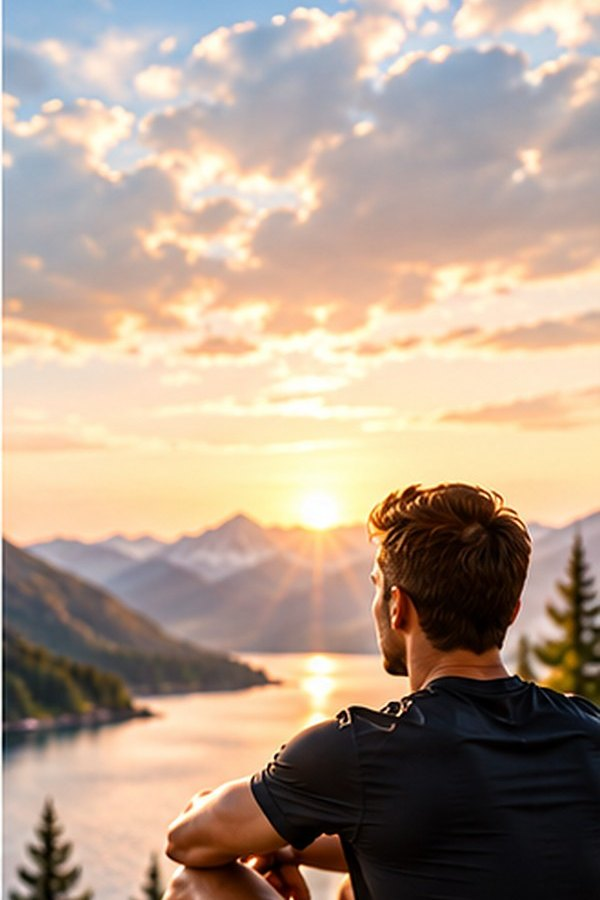
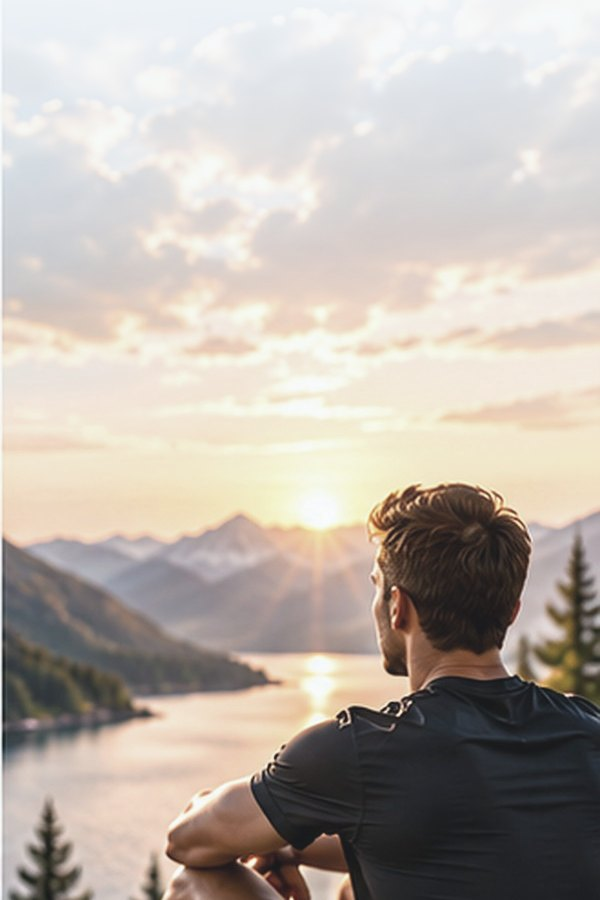
Welcome 5: pale daylight sky, large type and countdown, as designed
- The cover photo is toned from sunset to daylight, the sky paled at the
  top behind the copy
- Desktop: 42px question, 18px line, countdown boxes with 36px numbers,
  and the wide Claim button
- Phones: the type and countdown step down, and the cover grows taller
  with the photo pinned whole at its foot, so the copy never sits on him

Claude-Session: https://claude.ai/code/session_01D9wyYeR5ucDGRSLEYABcrG

diff --git a/lib/email-flows/render.ts b/lib/email-flows/render.ts
@@ -659,23 +659,24 @@ function offerLayout(k: Kit): string {
 }
 
 /** Days / hours / minutes boxes and the deadline in words — or nothing without a deadline. */
-function countdownBlock(k: Kit, label = 'Offer ends'): string {
+function countdownBlock(k: Kit, label = 'Offer ends', opts: { large?: boolean } = {}): string {
   const ends = k.ctx.offerEndsAt;
   if (!ends) return '';
   const left = countdown(k.ctx.now, ends);
+  const cls = (name: string) => (opts.large ? ` class="${name}"` : '');
   const box = (n: number, unit: string) => `
-    <td align="center" style="padding: 0 5px;">
-      <table role="presentation" cellpadding="0" cellspacing="0" border="0" style="border: 1px solid ${T.border}; border-radius: 6px; border-collapse: separate; background: #FFFFFF;">
-        <tr><td align="center" style="width: 64px; padding: 10px 0 8px;">
-          <p style="font-family: ${T.display}; font-size: 26px; font-weight: 700; color: ${T.ink}; margin: 0; line-height: 1;">${String(n).padStart(2, '0')}</p>
-          <p style="font-family: ${T.font}; font-size: 9px; font-weight: 600; letter-spacing: 0.12em; text-transform: uppercase; color: ${T.faint}; margin: 6px 0 0;">${unit}</p>
+    <td align="center" style="padding: 0 ${opts.large ? 7 : 5}px;">
+      <table role="presentation" cellpadding="0" cellspacing="0" border="0" style="border: 1px solid ${T.border}; border-radius: ${opts.large ? 8 : 6}px; border-collapse: separate; background: #FFFFFF;">
+        <tr><td${cls('ef-count-box')} align="center" style="width: ${opts.large ? 86 : 64}px; padding: ${opts.large ? '14px 0 11px' : '10px 0 8px'};">
+          <p${cls('ef-count-n')} style="font-family: ${T.display}; font-size: ${opts.large ? 36 : 26}px; font-weight: 700; color: ${T.ink}; margin: 0; line-height: 1;">${String(n).padStart(2, '0')}</p>
+          <p${cls('ef-count-unit')} style="font-family: ${T.font}; font-size: ${opts.large ? 10 : 9}px; font-weight: 600; letter-spacing: 0.12em; text-transform: uppercase; color: ${T.faint}; margin: ${opts.large ? 8 : 6}px 0 0;">${unit}</p>
         </td></tr>
       </table>
     </td>`;
   return `<table role="presentation" cellpadding="0" cellspacing="0" border="0" align="center" style="margin: 6px auto 8px;">
          <tr>${box(left.days, 'Days')}${box(left.hours, 'Hours')}${box(left.minutes, 'Minutes')}</tr>
        </table>
-       <p style="font-family: ${T.font}; font-size: 12px; font-weight: 500; color: ${T.body}; text-align: center; margin: 0 0 18px; text-shadow: 0 0 10px rgba(255,255,255,0.9);">${escapeHtml(label)} ${escapeHtml(formatDeadline(ends, k.ctx.timezone))}</p>`;
+       <p style="font-family: ${T.font}; font-size: ${opts.large ? 13 : 12}px; font-weight: 500; color: ${T.body}; text-align: center; margin: 0 0 ${opts.large ? 22 : 18}px; text-shadow: 0 0 10px rgba(255,255,255,0.9);">${escapeHtml(label)} ${escapeHtml(formatDeadline(ends, k.ctx.timezone))}</p>`;
 }
 
 const finePrint = (k: Kit, pad_ = '14px 32px 0') => {
@@ -692,15 +693,26 @@ function reminderLayout(k: Kit): string {
     // As designed: the question, the countdown and the button over the sky,
     // the product below them.
     const c = overlayTone(k);
+    const headline = k.m(s.headline);
+    (k.phoneRules ??= []).push(
+      '.ef-rem-h1 { font-size: 30px !important; }',
+      '.ef-rem-body { font-size: 15px !important; }',
+      '.ef-count-box { width: 64px !important; padding: 10px 0 8px !important; }',
+      '.ef-count-n { font-size: 26px !important; }',
+      '.ef-count-unit { font-size: 9px !important; margin-top: 6px !important; }',
+      // The copy takes more of a narrow screen: the cover grows, the photo
+      // stays whole at its foot, and the pale sky above it runs taller.
+      `.ef-rem-cover { height: calc((100vw - 22px) * ${k.step.hero_image_ratio || 1.5} + 130px) !important; background-size: 100% auto !important; background-position: center bottom !important; background-color: #F6F9FB !important; }`,
+    );
     return [
       coverHero(
         k,
-        overlayHeadline(k, 'center', 30) +
-          (s.body ? `<p style="font-family: ${T.font}; font-size: 15px; line-height: 1.6; color: ${c.body}; text-align: center; margin: 12px 0 18px; ${c.shadow}">${escapeHtml(k.m(s.body))}</p>` : '') +
-          countdownBlock(k) +
-          button(k, s.cta_label, s.cta_url) +
+        (headline ? `<h1 class="ef-rem-h1" style="font-family: ${T.display}; font-size: 42px; font-weight: 700; line-height: 1.12; color: ${c.heading}; margin: 0 0 14px; text-align: center; text-wrap: balance; ${c.shadow}">${escapeHtml(headline)}</h1>` : '') +
+          (s.body ? `<p class="ef-rem-body" style="font-family: ${T.font}; font-size: 18px; line-height: 1.55; color: ${c.body}; text-align: center; margin: 0 auto 22px; max-width: 470px; ${c.shadow}">${escapeHtml(k.m(s.body))}</p>` : '') +
+          countdownBlock(k, 'Offer ends', { large: true }) +
+          button(k, s.cta_label, s.cta_url, { wide: true, large: true }) +
           codeLine,
-        { padding: '40px 36px', phoneWash: 'top' },
+        { padding: '44px 36px', phoneWash: 'top', cellClass: 'ef-rem-cover' },
       ),
       `<tr><td bgcolor="${T.navy}" style="background: ${T.navy}; padding: 22px 20px;">${badges(k, s.highlights, true)}</td></tr>`,
       finePrint(k),

diff --git a/lib/email-flows/email-flows.test.ts b/lib/email-flows/email-flows.test.ts
@@ -614,6 +614,14 @@ test('the text sits on the photo in welcome 2, 3 and 5, as designed', () => {
   // Welcome 5: question, countdown and button over the sky.
   const five = coverOf(renderFlowEmail(defaultStep(5), ctx({ offerEndsAt: new Date('2026-10-21T14:00:00Z') })).html);
   for (const text of ['Still Thinking About It?', 'Minutes', 'Claim 20% Off']) assert.ok(five.includes(text), text);
+  // Large type and countdown on desktop; on phones they step down and the
+  // cover grows, with the photo whole at its foot.
+  const fiveHtml = renderFlowEmail(defaultStep(5), ctx({ offerEndsAt: new Date('2026-10-21T14:00:00Z') })).html;
+  assert.match(fiveHtml, /class="ef-rem-h1" style="[^"]*font-size: 42px;/);
+  assert.match(fiveHtml, /class="ef-count-n" style="[^"]*font-size: 36px;/);
+  const fivePhone = fiveHtml.slice(fiveHtml.indexOf('@media'), fiveHtml.indexOf('</style>'));
+  assert.ok(fivePhone.includes('.ef-count-n { font-size: 26px !important; }'));
+  assert.match(fivePhone, /\.ef-rem-cover \{ height: calc\(\(100vw - 22px\) \* 1\.5 \+ 130px\) !important;/);
 });
 
 test('on phones the photo under the copy is lightened; desktop is untouched', () => {

diff --git a/docs/changelog/2026-10-15-email-flows.md b/docs/changelog/2026-10-15-email-flows.md
@@ -217,7 +217,7 @@ stretched cover:
 | `offer-card` (pale mountains, vials at the right) | 0.39 | Welcome 1 offer panel, copy over the left |
 | `woman-portrait` (the supplied woman-in-the-sun photo, whole, on the right) | 1.30 | Welcome 2 hero: headline, line and benefits down the left, button centred at the foot |
 | `quality-vials` (two vials on the right, pale haze at the upper left) | 0.84 | Welcome 3 hero, headline and line at the upper left |
-| `man-lake-sky` (man by the lake, sky above) | 1.50 | Welcome 5 hero, question, countdown and button over the sky |
+| `man-lake-sky` (man by the lake, pale daylight sky above) | 1.50 | Welcome 5 hero, question, countdown and button over the sky |
 | `man-lake` (man by the lake) | 1.35 | Cart 1 hero, headline over the sky |
 | `man-lake-vial` (vial on leaves) | 0.55 | Cart 1 image above the button |
 | `woman-lake` (woman by the lake) | 1.31 | Cart 2 hero, headline over the sky |
@@ -254,6 +254,12 @@ Welcome 2's, which is a photo supplied later.
   teal-outlined box) sits over the navy top. On phones the type steps down
   and the cover grows taller, so the photo stays whole below the code. Cart 3
   shares the layout but keeps its own look: offer on navy, photo below.
+- **Welcome 5** (`man-lake-sky`): the sunset is toned to daylight and the
+  sky paled at the top, as designed. Over it sit the question, the line,
+  the countdown, the wide Claim button and the code. Desktop type is large:
+  42px headline, 18px line, and countdown boxes with 36px numbers. On
+  phones the type steps down and the cover grows taller, with the photo
+  pinned whole at its foot and the pale sky running taller above it.
 
 Where the designs set the text over the photo (Welcome 1, 2, 3 and 5,
 Cart 1, Cart 2), it sits over the sky or the clear side of the photo. On
